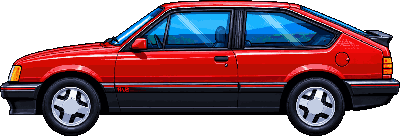
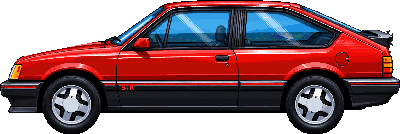
Ímola S/R: lateral nova (arte atualizada do Victor), recortada do cenário, espelhada, sem marcas e com o S/R refeito legível (v0.30.0)
Claude-Session: https://claude.ai/code/session_01MLD9VR7gkmY4w6a9beZcp6

diff --git a/src/cars.ts b/src/cars.ts
@@ -355,7 +355,7 @@ const WHEELS: Record<string, number[][]> = {
   'br-pumagtb': [[0.192, 0.741, 0.078], [0.749, 0.738, 0.079]],
   'br-golgti': [[0.193, 0.815, 0.078], [0.823, 0.815, 0.078]],
   'br-vectra': [[0.178, 0.777, 0.07], [0.778, 0.779, 0.07]],
-  'br-monza': [[0.176, 0.784, 0.072], [0.787, 0.784, 0.072]],
+  'br-monza': [[0.176, 0.782, 0.072], [0.779, 0.782, 0.072]],
   'br-monzasedan': [[0.189, 0.778, 0.0705], [0.788, 0.778, 0.0705]],
   'br-monzacoupe': [[0.189, 0.778, 0.0705], [0.788, 0.778, 0.0705]],
   'countach': [[0.225, 0.732, 0.054], [0.809, 0.735, 0.054]],

diff --git a/tools/ref/monza_sprites.py b/tools/ref/monza_sprites.py
@@ -16,7 +16,9 @@ from PIL import Image
 
 WIDTH = {'side': 400, 'rear': 260, 'front': 260}
 # caixa do carro na arte (folga em volta), para a inundação não gastar tempo com o cenário
-BOX = {'front': (330, 170, 1330, 880), 'rear': (320, 160, 1350, 880), 'side': (30, 280, 1650, 850)}
+BOX = {'front': (330, 170, 1330, 880), 'rear': (320, 160, 1350, 880), 'side': (40, 215, 1745, 800)}
+# lateral (arte nova, 1774 x 887): centros das rodas, raio do pneu, linha de baixo da carroceria e o "MONZA" da saia
+SW, SR, SBOT, STXT = ((412, 670), (1430, 670)), 124, 702, (1058, 584, 1174, 609)
 
 
 def segment(a, k):
@@ -62,9 +64,19 @@ def debrand(a, k):
         rowfill(a, 420, 502, 596, 540)
         rowfill(a, 1042, 500, 1252, 542)
     else:
-        rowfill(a, 1008, 632, 1112, 668)  # "MONZA" (fica o S/R)
+        # "MONZA" some e o "S/R" fino da arte (viraria borrão no sprite) é refeito em letra cheia; como a
+        # lateral é espelhada depois, o texto é escrito espelhado aqui para sair legível no sprite
+        from PIL import ImageDraw, ImageFont
+        x0, y0, x1, y1 = STXT
+        for y in range(y0, y1):
+            a[y, x0:1234] = np.median(a[y, 940:1040], axis=0).astype(np.uint8)
+        t = Image.new('L', (70, 30), 0)
+        ImageDraw.Draw(t).text((35, 15), 'S/R', font=ImageFont.truetype('/usr/share/fonts/truetype/dejavu/DejaVuSans-Bold.ttf', 30), fill=255, anchor='mm')
+        im = Image.fromarray(a)
+        im.paste((238, 28, 28), (1160, 582), t.transpose(Image.FLIP_LEFT_RIGHT))
+        a[:] = np.array(im)
         yy, xx = np.mgrid[0:a.shape[0], 0:a.shape[1]]
-        for cx, cy in ((383, 717), (1343, 717)):
+        for cx, cy in SW:
             d = np.hypot(xx - cx, yy - cy)
             ring = (d > 30) & (d < 36)
             lum = a[ring].mean(axis=1)
@@ -80,9 +92,11 @@ def ground(car, a, k):
     car &= ~green
     if k == 'side':
         wheels = np.zeros_like(car)
-        for cx, cy in ((383, 717), (1343, 717)):
-            wheels |= np.hypot(xx - cx, yy - cy) <= 116
-        car &= (yy <= 748) | wheels
+        for cx, cy in SW:
+            wheels |= np.hypot(xx - cx, yy - cy) <= SR
+        car &= (yy <= SBOT) | wheels
+        # arbustos escuros encostados no carro: acima da linha do capô (à direita) e atrás do aerofólio
+        car &= ~((xx > 1300) & (yy < 397 + (xx - 1290) * 0.2)) & ~((xx < 88) & (yy < 440))
     elif k == 'front':
         car &= (yy <= 803) | ((xx >= 378) & (xx <= 526)) | ((xx >= 1130) & (xx <= 1278))
     else:
@@ -164,9 +178,9 @@ def main():
         elif k == 'rear':
             m[sy(556):] = False  # lanternas e filete
         else:
-            m[sy(618):] = False  # filete da saia
-            m[sy(480):, :int(round(90 / f))] = False  # pisca dianteiro
-            m[sy(480):, -int(round(75 / f)):] = False  # lanterna traseira
+            m[sy(566):] = False  # filete da saia
+            m[sy(480):, :int(round(95 / f))] = False  # pisca dianteiro
+            m[sy(450):, -int(round(80 / f)):] = False  # lanterna traseira
         Image.fromarray(s, 'RGBA').save(os.path.join(out, f'br-monza-{k}.png'), optimize=True)
         Image.fromarray((m * 255).astype(np.uint8), 'L').convert('RGBA').save(os.path.join(out, f'br-monza-{k}-mask.png'), optimize=True)
         print(k, s.shape[1], s.shape[0], 'origem', ox, oy, 'fator', round(f, 3), 'máscara', int(m.sum()))
